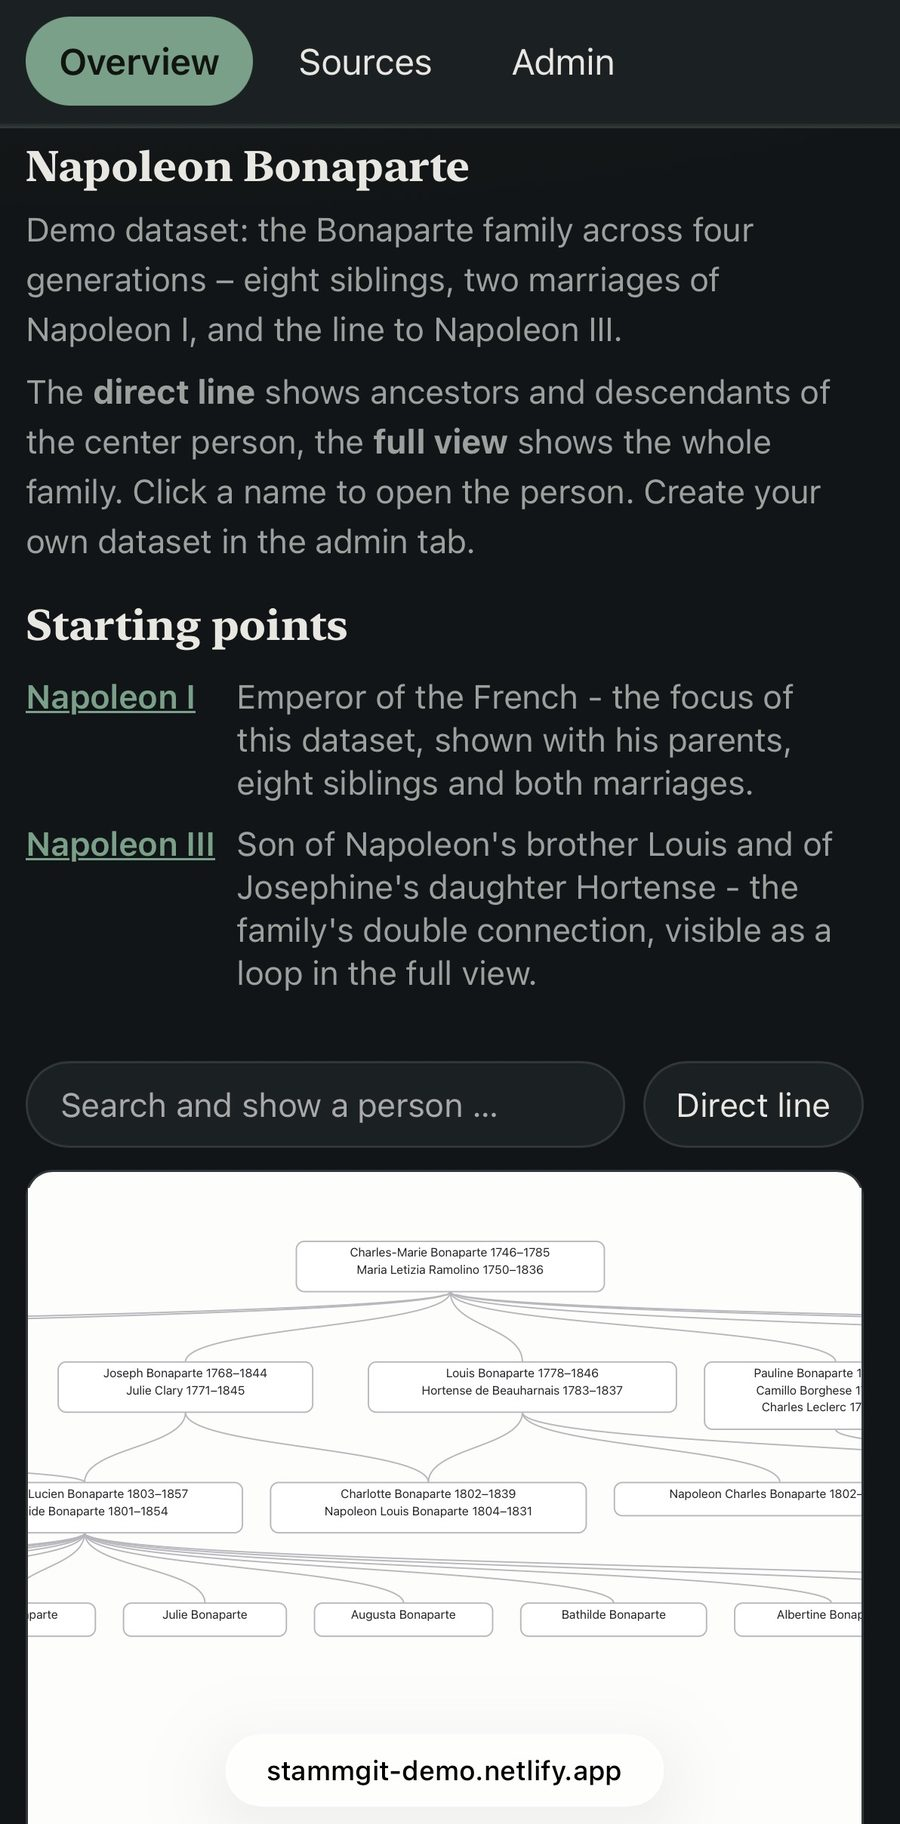
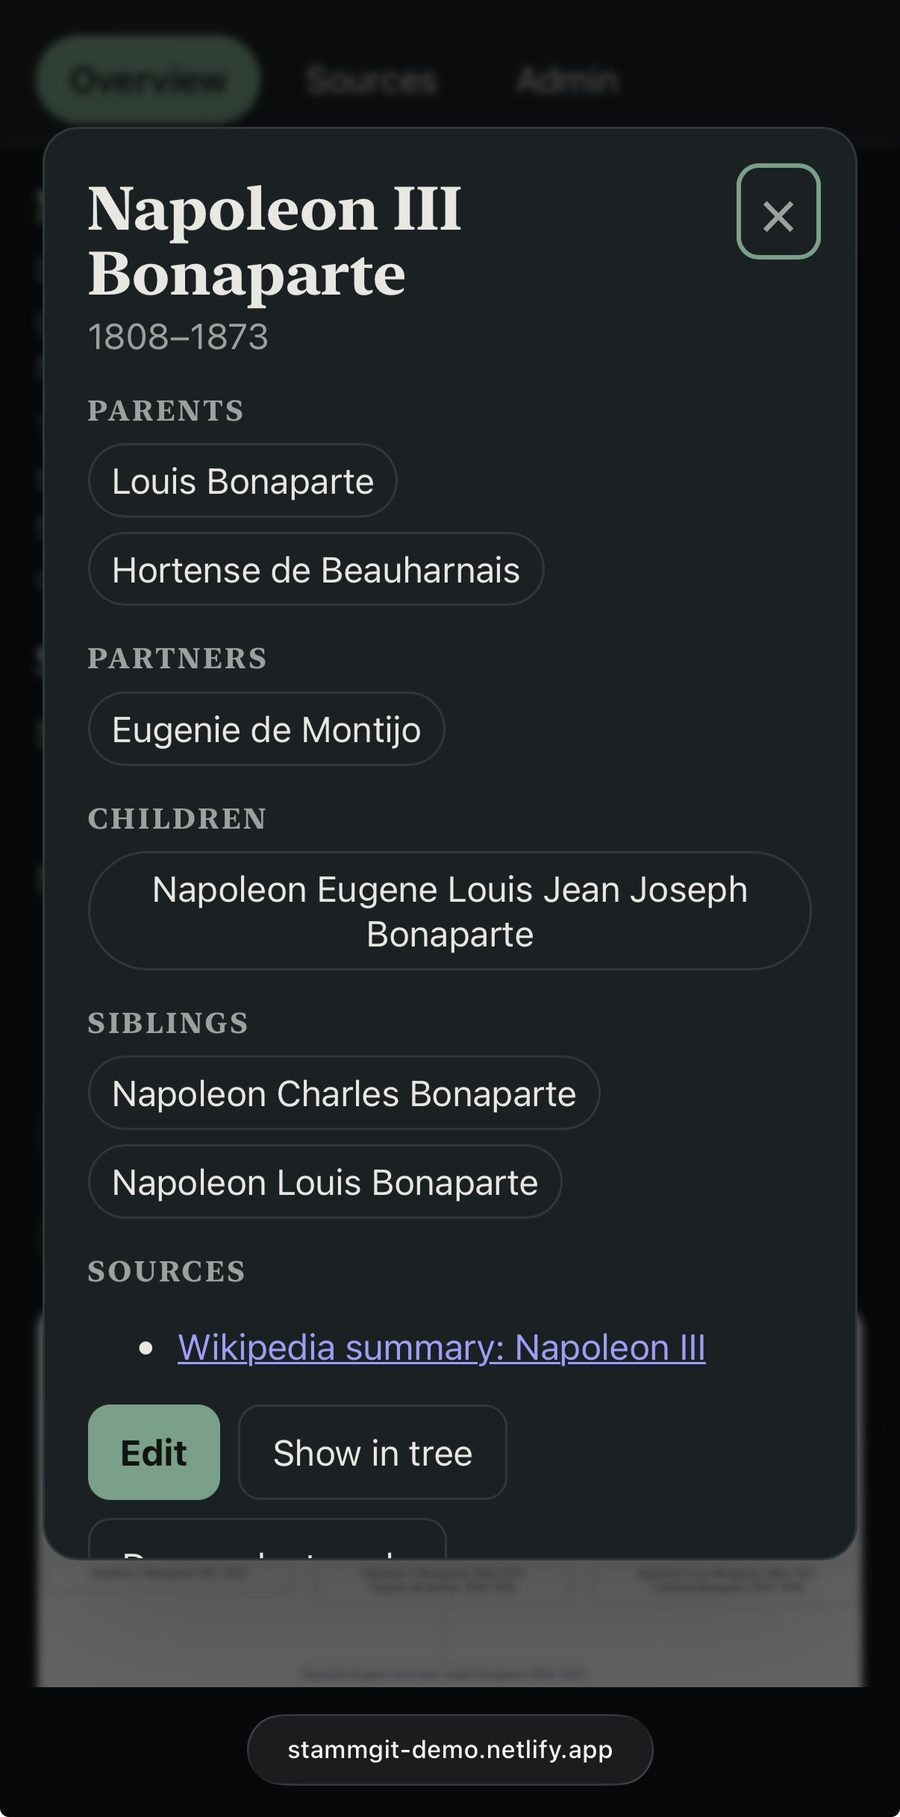
README: overview screenshot updated – direct line with the visible Beauharnais loop

diff --git a/README.md b/README.md
@@ -14,7 +14,7 @@ Editing is local-first, so every visitor plays in their own browser
 sandbox and the repository stays untouched.
 
 <p align="center">
-<img src="docs/screenshots/overview-iphone.jpeg" width="290" alt="Overview with starting points and the Bonaparte tree">
+<img src="docs/screenshots/overview-iphone.jpeg" width="290" alt="Overview with starting points and the direct line of Napoleon I – the Beauharnais double connection converging on Napoleon III">
 &emsp;&emsp;
 <img src="docs/screenshots/person-dialog-iphone.jpeg" width="290" alt="Person dialog: Napoleon III with the double parentage (Louis Bonaparte and Hortense de Beauharnais), sources and view actions">
 </p>
